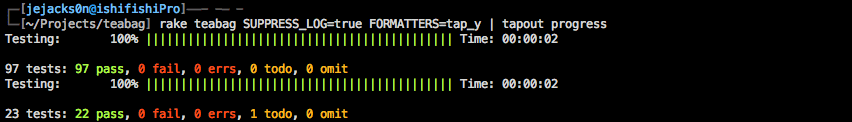
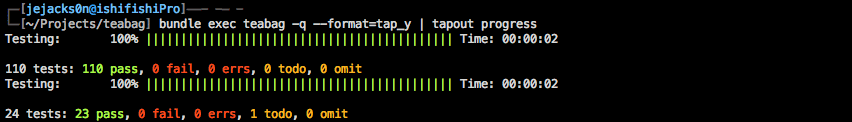
updates readme and screenshots for command line interface.

diff --git a/README.md b/README.md
@@ -5,11 +5,11 @@ Teabag
 
 Teabag is a Javascript test runner built on top of Rails. It can run tests in the browser, or headlessly using PhantomJS or with Selenium WebDriver.
 
+It's objective is to be the simplest, while also being the most complete Javascript testing solution for Rails. It takes full advantage of the asset pipeline and ships with support for Jasmine, Mocha and QUnit.
+
 Ok, another Javascript test runner, right? Really? Yeah, that's tough, but we're pretty confident Teabag is one of the nicest you'll find at the moment. And if you disagree, you can swing by our offices in Denver and we'll buy you a beer if you're so inclined -- and probably fix whatever it is that you didn't like.
 
-The goal for Teabag is to be the simplest, and the most complete Javascript testing solution for Rails. Teabag takes full advantage of the asset pipeline and ships with support for Jasmine, Mocha and QUnit.
-
-Feedback, ideas and pull requests are always welcome, or you can hit us up [@modeset_](https://twitter.com/modeset_).
+Feedback, ideas and pull requests are always welcome, or you can hit us up on Twitter [@modeset_](https://twitter.com/modeset_).
 
 
 ## Screenshots
@@ -53,69 +53,23 @@ Optionally run the install generator to get the initializer and a basic spec hel
 rails generate teabag:install
 ```
 
-## Quick Start
-
-1. Create a new Rails app
-2. Install Teabag and bootstrap it with the generator (`rails g teabag:install`)
-3. Write your first spec (explained in a sec)
-4. Run the test suite
-5. red. green. refactor.
-
-### Writing your first spec
-
-The install generator will create a `spec/javascripts` directory for you. Teabag will automatically pick up any specs written in that folder named `[classname]_spec.(js|coffee|js.coffee)`.
-
-Let's write a basic implementation in CoffeeScript using Jasmine (though you could just as easily use vanilla Javascript). Start by creating a `spec/javascripts/calculator_spec.coffee` and put this in it:
-
-```coffeescript
-#= require calculator
-describe "Calculator", ->
-
-  it "should add two digits", ->
-    expect( new Calculator().add(2,2) ).toBe(4)
-```
-
-Now let's create an `app/assets/javascripts/calculator.coffee` and add:
-
-```coffeescript
-class @Calculator
-```
-
-Run `rake teabag` - you should see your first failing spec.
+You can tell the generator which framework you want to use, if you want coffeescript spec helper files, and if you want the env file created (used by the command line interface).
 
 ```
-Failures:
-
-  1) Calculator should add two numbers.
-     Failure/Error: TypeError: 'undefined' is not a function
+rails generate teabag:install --framework=mocha --coffee --env
 ```
-
-To make the test pass we just need to implement the `add` method.
-
-```coffeescript
-  add: (a, b) ->
-    a + b
-```
-
-`rake teabag` again and that spec should be passing!
-
-If you'd prefer, you can also run your tests in the browser. Fire up your Rails server and visit [localhost:3000/teabag](http://localhost:3000/teabag) to run the specs in whichever browser you want.
 
 
 ## Usage
 
-Teabag uses the Rails asset pipeline to serve files. This simplifies the fixtures as well and lets you use things like HAML or RABL/JBuilder to generate your fixtures.
+Teabag uses the Rails asset pipeline to serve files. This simplifies the fixtures as well and lets you use things like HAML or RABL/JBuilder to generate your fixtures.  You can run Teabag in three primary ways -- in the browser, via the rake task, and using the command line interface.
+
+Here's a really good [Quick Start Walkthrough] for writing and running your first tests.
 
 ### Browser
 
 ```
 http://localhost:3000/teabag
-```
-
-To run a specific suite use:
-
-```
-http://localhost:3000/teabag/my_fantastic_suite
 ```
 
 ### Rake
@@ -131,6 +85,8 @@ rake teabag suite=my_fantastic_suite
 ```
 
 ### CLI
+
+The command line interface requires a teabag_env.rb file that you can get by running the generator with the `--env` flag (`rails g teabag:install --env`). This file is used to load the Rails environment so Teabag can run within the context of Rails.
 
 ```
 bundle exec teabag
@@ -156,13 +112,13 @@ bundle exec teabag -q --format=tap_y | tapout progress
 
 **Notes:**
 
-1. You can override some configurations by using environment variables. `FAIL_FAST=[true/false]`, `FORMATTERS=tap_y`, etc. (read more about [configuration](#configuration) below.)
-2. By default the console runner runs within the development environment, but you can specify the environment using `RAILS_ENV=test rake teabag`. This is to stay consistent with what you might see in the browser (since that's likely running in development).
+1. By default the rake task and cli run within the development environment, but you can specify the environment using `RAILS_ENV=test rake teabag`. This is to stay consistent with what you might see in the browser (since that's likely running in development).
+2. You can override some configurations by using environment variables with the rake task. `FAIL_FAST=[true/false]`, `FORMATTERS=tap_y`, `COLOR=false`, etc. (read more about [configuration](#configuration) below.)
 
 
 ## Writing Specs
 
-Depending on what framework you use this can be slightly different. There's an expectation that you have a certain level of familiarity with the test framework that you're using. Right now we support [Jasmine](http://pivotal.github.com/jasmine), [Mocha](http://visionmedia.github.com/mocha) and [QUnit](http://qunitjs.com).
+Depending on what framework you use this can be slightly different. There's an expectation that you have a certain level of familiarity with the test framework that you're using. Right now Teabag supports [Jasmine](http://pivotal.github.com/jasmine), [Mocha](http://visionmedia.github.com/mocha) and [QUnit](http://qunitjs.com).
 
 Since we have the asset pipeline at our fingertips you can feel free to use the `= require` directive throughout your specs and spec helpers.
 
@@ -289,7 +245,7 @@ end
 
 ### Manifest Style
 
-Teabag is happy to look for files for you, but you can disable this feature and maintain a manifest yourself.  Each suite can utilize a different spec helper and you can use these to create your own manifest using the `= require` directive.
+Teabag is happy to look for files for you, but you can disable this feature and maintain a manifest yourself.  Each suite can utilize a different spec helper and you can use these to create your own manifest using the `= require` directive. This limits your abilities to run specific files from the command line interface, but it's available if you want to use it.
 
 Tell the suite that you don't want it to match any files, and then require files in your spec helper.
 
@@ -310,7 +266,6 @@ You can specify a file matcher and all matching files will be loaded when the su
 
 **default:** `"{spec/javascripts,app/assets}/**/*_spec.{js,js.coffee,coffee}"`
 
-
 #### `helper`
 
 Each suite can load a different spec helper, which can in turn require additional files. This file is loaded before your specs are loaded, and can be used as a manifest.
@@ -321,7 +276,7 @@ Each suite can load a different spec helper, which can in turn require additiona
 
 These are the core Teabag javascripts. It's strongly encouraged to include only the base files here. You can require other support libraries in your spec helper, which allows you to change them without having to restart the server.
 
-Available frameworks: teabag-jasmine, teabag-mocha, teabag-qunit
+Available: teabag-jasmine, teabag-mocha, teabag-qunit
 
 **Note:** To use the CoffeeScript source files use `"teabag/jasmine"` etc.
 
@@ -336,7 +291,7 @@ If you want to change how Teabag looks, or include your own stylesheets you can 
 
 ## Configuration
 
-The best way to read about the configuration options is to generate the initializer, but we've included the info here too.
+The best way to read about the configuration options is to generate the initializer and env, but we've included the info here as well.
 
 **Note:** `Teabag.setup` may not be available in all environments. The generator provides a check wrapped around Teabag.setup.
 
@@ -364,21 +319,38 @@ Fixtures are rendered through a standard controller. This means you can use thin
 
 **default:** `"spec/javascripts/fixtures"`
 
+### Console Runner Specific
+
+These configuration directives are applicable only when running via the rake task or command line interface and should be set within the teabag_env.rb file. You can get this file by running the generator with the --env flag (`rails g teabag:install --env`).
+
+#### `driver`
+
+Allows you to specify which driver you want to run your specs with -- Supports [PhantomJS](http://phantomjs.org/) and [Selenium Webdriver](http://seleniumhq.org/docs/03_webdriver.jsp). Check this wiki article for information about [Using Selenium WebDriver](https://github.com/modeset/teabag/wiki/Using-Selenium-WebDriver), and this one if you're having issues with [PhantomJS on Linux](https://github.com/modeset/teabag/wiki/PhantomJS-on-Linux).
+
+Available: phantomjs, selenium
+
+- CLI: -d, --driver
+- ENV: DRIVER=selenium
+
+**default:** `"phantomjs"`
+
 #### `server_timeout`
 
 Timeout for starting the server in seconds. If your server is slow to start you may have to bump this, or you may want to lower this if you know it shouldn't take long to start.
 
+- CLI: --server-timeout
+- ENV: SERVER_TIMEOUT=10
+
 **default:** `20`
 
-#### `driver`
+#### `fail_fast`
 
-Allows you to specify which driver you want to run your specs with -- Supports [PhantomJS](http://phantomjs.org/) and [Selenium Webdriver](http://seleniumhq.org/docs/03_webdriver.jsp). Check the wiki for more information about [Using Selenium WebDriver](https://github.com/modeset/teabag/wiki/Using-Selenium-WebDriver), and this one if you're having issues with [PhantomJS on Linux](https://github.com/modeset/teabag/wiki/PhantomJS-on-Linux).
+If you have several suites it can be useful to make Teabag fail directly after any suite contains failures, but in environments like CI this may not be desirable.
 
-Supported drivers: phantomjs, selenium
+- CLI: --[no-]fail-fast
+- ENV: FAIL_FAST=false
 
-**Note:** Override this directive by running `rake teabag DRIVER=selenium`.
-
-**default:** `"phantomjs"`
+**default:** `true`
 
 #### `formatters`
 
@@ -386,25 +358,28 @@ You can specify the formatters that Teabag will use when outputting the results.
 
 Supported formatters: dot, tap_y, swayze_or_oprah
 
-**Note:** Override this directive by running `rake teabag FORMATTERS=dot,swayze_or_oprah`.
+- CLI: -f, --format FORMATTERS
+- ENV: FORMATTERS=dot,swayze_or_oprah
 
 **default:** `"dot"`
-
-#### `fail_fast`
-
-If you have several suites it can be useful to make Teabag fail directly after any suite contains failures, but in environments like CI this may not be desirable.
-
-**Note:** Override this directive by running `rake teabag FAIL_FAST=false`
-
-**default:** `true`
 
 #### `suppress_log`
 
 Teabag pipes all console[log/debug/error] calls to STDOUT. This is useful to catch places where you've forgotten to remove them, but in verbose applications this may not be desirable.
 
-**Note:** Override this directive by running `rake teabag SUPPRESS_LOG=true`
+- CLI: -q, --[no-]suppress-log
+- ENV: SUPPRESS_LOG=true
 
 **default:** `false`
+
+#### `color`
+
+Specify if you want color output by default.
+
+- CLI: --[no-]color
+- ENV: COLOR=false
+
+**default:** `true`
 
 
 ## Test Frameworks
